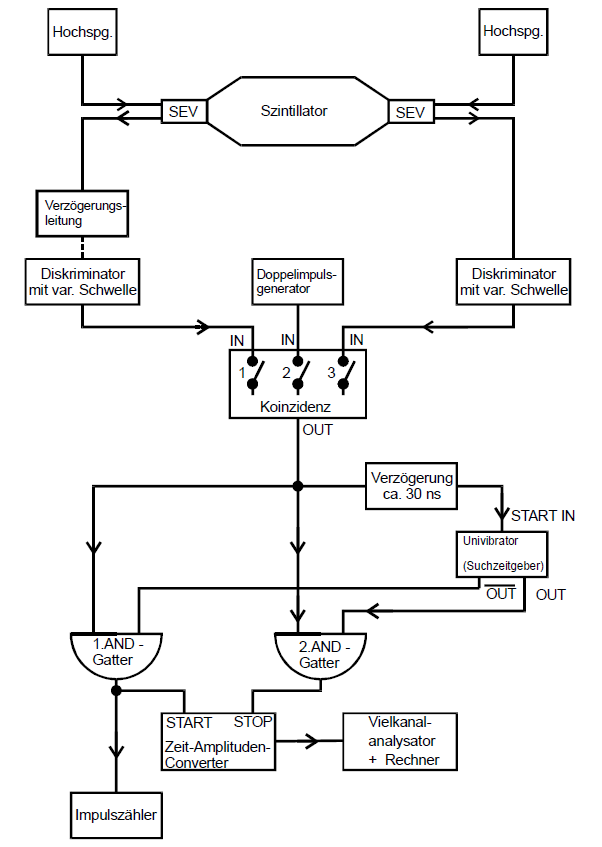
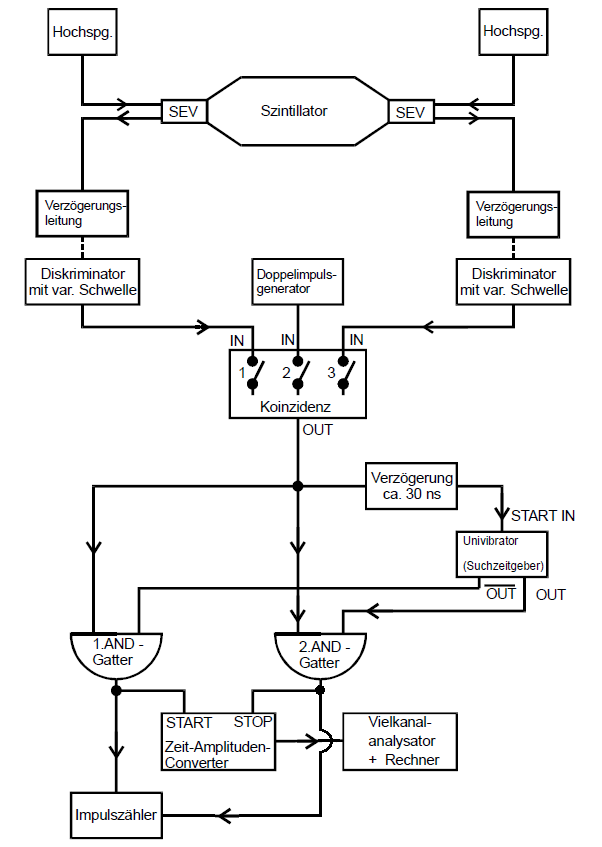
V01 Korrektur Aufbau

diff --git a/V01 Myonen/content/durchfuehrung.tex b/V01 Myonen/content/durchfuehrung.tex
@@ -1,28 +1,35 @@
 \section{Aufbau und Durchführung}
 \subsection{Aufbau}
 Wie in Kapitel \ref{sec:1} beschrieben, wird die Lebensdauer der einzelnen Myonen bestimmt, indem die Zeitdifferenz zwischen Eintreffen
-des Myons im Szintillator und dem folgenden Zerfall gemessen wird. Problematisch hierbei ist, dass die meisten Myonen eine so hohe Energie haben, dass
-sie im Szintillator nicht vollständig abgebremst werden und somit nicht innerhalb des Szintillators zerfallen. Diese Myonen senden also nur ein Start-Signal,
-aber kein Stopp-Signal, sodass solche Signale abgefangen werden müssen. Weiterhin zerfallen nicht alle negativen Myonen sofort, sondern manche werden zunächst von einem
-Atomkern eingefangen und bilden ein myonisches Atom.
+des Myons im Szintillator und dem folgenden Zerfall gemessen wird. Zur Zeitmessung werden die Signale des Szintillators als
+Start- und Stopp-Impulse an einen Zeit-Amplituden-Konverter übertragen. Dabei kann nicht zwischen Myonen-Signalen und Zerfalls-Signalen
+unterschieden werden. Problematisch hierbei ist, dass die meisten Myonen eine so hohe Energie haben, dass
+sie im Szintillator nicht vollständig abgebremst werden und somit nicht innerhalb des Szintillators zerfallen.
+Diese Myonen senden also nur ein Start-Signal bei ihrem Eintreffen, aber kein Stopp-Signal, da sie nicht im Szintillator zerfallen,
+sodass solche Signale abgefangen werden müssen. Weiterhin zerfallen nicht alle negativen Myonen sofort,
+sondern manche werden zunächst von einem Atomkern eingefangen und bilden ein myonisches Atom.
 
 \begin{figure}[h]
   \centering
-  \includegraphics[scale=0.6]{graphics/aufbau.png}
-  \caption{Schematischer Versuchsaufbau \cite{anleitung}.}
+  \includegraphics[scale=1.2]{graphics/aufbau.png}
+  \caption{Schematischer Versuchsaufbau, nach \cite{anleitung}.}
   \label{fig:aufbau}
 \end{figure}
 
 In Abbildung \ref{fig:aufbau} ist der verwendete Versuchsaufbau schematisch dargestellt. Aufgrund der benötigten geringen Abklingzeit wird ein organischer Szintillator
-verwendet. Wie in der Abbildung deutlich wird, werden an zwei entgegengesetzten Seiten Sekundärelektronenverstärker (SEV) optisch angekoppelt. Diese wandeln die Lichtimpulse
-des Szintillators in elektronische Impulse um. Ein Problem bei den SEV besteht darin, dass deren Photokathoden zu spontaner Elektronenemission neigen, welche die Messungen
-verfälschen können. Deshalb werden zwei SEV verwendet und eine Koinzidenzschaltung verwendet, die nur Signale zulässt, wenn die beiden SEV innerhalb eines kurzen Intervalls "gleichzeitig"
+verwendet. Dieser hat gegenüber anorganischen Szintillatoren den Nachteil, dass keine gute Energieauflösung erreicht wird, allerdings wird hier keine Messung der
+Energie benötigt, sodass dieser Nachteil für die Durchführung irrelevant ist.
+Wie in der Abbildung deutlich wird, werden an zwei entgegengesetzten Seiten Sekundärelektronenverstärker (SEV) optisch angekoppelt. Diese wandeln die Lichtimpulse
+des Szintillators in elektronische Impulse um. Ein Problem bei den SEV besteht darin, dass sie zu spontaner Elektronenemission neigen, welche die Messungen
+verfälschen können. Deshalb werden zwei SEV verwendet und eine Koinzidenzschaltung verwendet, die nur Signale zulässt, wenn die beiden SEV innerhalb eines kurzen Intervalls \enquote{gleichzeitig}
 Impulse liefern. Da die beiden SEV und deren optische Kopplung an den Szintillator leichte Unterschiede aufweisen können, wird beiden SEV jeweils eine Verzögerungsleitung nachgeschaltet, die
-so angepasst wird, dass die Signale zeitgleich bei der Koinzidenzschaltung ankommen. Vor der Koinzidenzschaltung ist jeweils ein Diskriminator, der zum einen der Rauschunterdrückung dient
+so angepasst wird, dass die Signale zeitgleich bei der Koinzidenzschaltung ankommen. Vor der Koinzidenzschaltung ist jeweils ein Diskriminator, der zum einen der Rauschunterdrückung dient,
+indem er sämtliche Signale unterhalb einer einstellbaren Schwelle herausfiltert,
 und zum anderen die Signale der SEV auf eine einheitliche Länge und Breite bringt, da die restliche Schaltung aus logischen Bauteilen besteht, welche dem NIM-Standard folgen.
 
-Da die mittlere Lebensdauer der Myonen kleiner als der mittlere zeitliche Abstand zwischen zwei einfallenden Myonen ist, kann gemessen werden, indem der Impuls eines einfallenden Myons eine
-Stoppuhr startet und der Impuls des zerfallenden Myons die Uhr stoppt. Dazu wird ein Zeit-Amplituden-Converter (TAC) verwendet, der einen Spannungsimpuls abgibt, dessen Amplitude proportional
+Da die mittlere Lebensdauer der Myonen kleiner als der mittlere zeitliche Abstand zwischen zwei einfallenden Myonen ist, kann die Lebensdauer mithilfe einer Stoppuhr gemessen werden.
+Die Stoppuhr wird durch den Impuls eines einfallenden Myons gestartet und durch den Impuls des zerfallenden Myons gestoppt. Dazu wird ein Zeit-Amplituden-Converter (TAC) verwendet,
+der einen Spannungsimpuls abgibt, dessen Amplitude proportional
 zur Zeitdifferenz zwischen Start- und Stoppsignal ist. Außerdem werden die Start- und Stoppimpulse, die den TAC erreichen, von Impulszählern aufgezeichnet. Die Impulse des TAC werden von einem
 Vielkanalanalysator entsprechend ihrer Höhe in 512 Kanälen histogrammiert. Zur Kalibrierung der Kanäle kann an die Koinzidenzschaltung ein Doppelimpulsgenerator angeschlossen werden, welcher
 elektrische Impulse mit einer einstellbaren Zeitdifferenz erzeugen kann.
@@ -34,11 +41,12 @@ eine Länge von ca. $\SI{20}{ns}$ haben, ist vor dem Univibrator eine Verzögeru
 
 \subsection{Durchführung}
 Zunächst muss die Schaltung aufgebaut werden und die einzelnen Komponenten müssen eingestellt werden. Angefangen wird bei den Diskriminatorschwellen, die so eingestellt werden, dass
-beide Diskriminatoren die gleiche Impulsrate liefern, welche zwischen 20 und 40 Impulsen pro Sekunde liefen sollte. Dann werden die Verzögerungsleitungen so aufeinander eingestellt, dass
+beide Diskriminatoren die gleiche Impulsrate liefern, welche zwischen 20 und 40 Impulsen pro Sekunde liefen sollte. Um keine Myonen-Signale zu verlieren, sollte die Impulsrate allerdings näher an 40
+Impulsen pro Sekunde liegen. Dann werden die Verzögerungsleitungen so aufeinander eingestellt, dass
 die maximale Anzahl an Impulsen von der Koinzidenzschaltung ausgegeben werden. Danach wird ein Oszilloskop an den Ausgang des Univibrators angeschlossen, um die Suchzeit $T_\text{S}$ einzustellen.
 Gewählt wird eine Suchzeit von $\SI{20}{\micro\second}$. Nun wird die Schaltung bis zum TAC aufgebaut und dessen Funktionsweise überprüft. Dazu wird der Doppelimpulsgenerator anstelle der SEV an die
 Koinzidenzschaltung angeschlossen. Der Messbereich des TACs wird an die Suchzeit $T_\text{S}$ angepasst. Zuletzt wird der Vielkanalanalysator angeschlossen und kalibriert. Dazu werden mit dem Doppelimpulsgenerator
 Impulse mit verschiedenen Zeitdifferenzen erzeugt und überprüft, welche Kanäle diesen Zeitdifferenzen entsprechen. Daraus kann eine Ausgleichsgerade für den Zusammenhang zwischen Kanalnummer und Zeitdifferenz berechnet
 werden.
 
-Nach dem Aufbau der Schaltung und der Kalibrierung wird das Messprogramm gestartet und zeitgleich werden die Impulszähler gestartet. Über einen Zeitraum von $\SI{162391}{\second}$ werden Daten aufgenommen.
+Nach dem Aufbau der Schaltung und der Kalibrierung wird das Messprogramm gestartet und zeitgleich werden die Impulszähler gestartet. Über einen Zeitraum von $\SI{45.11}{\hour}$ werden Daten aufgenommen.
